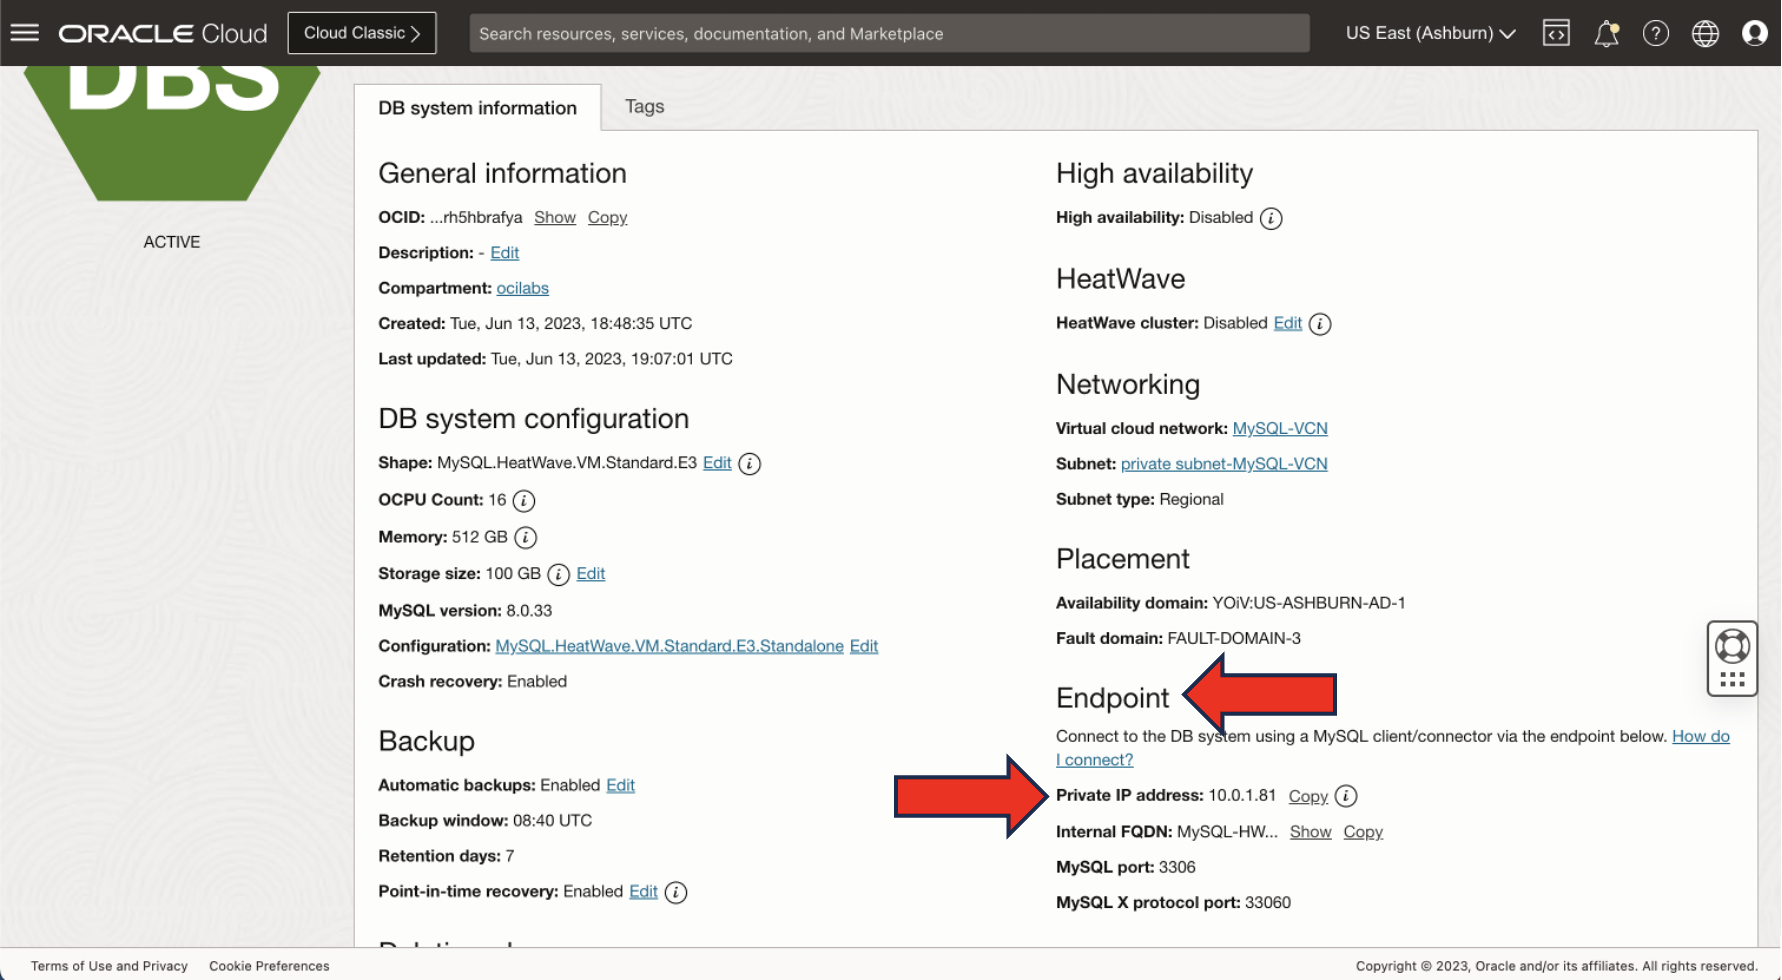
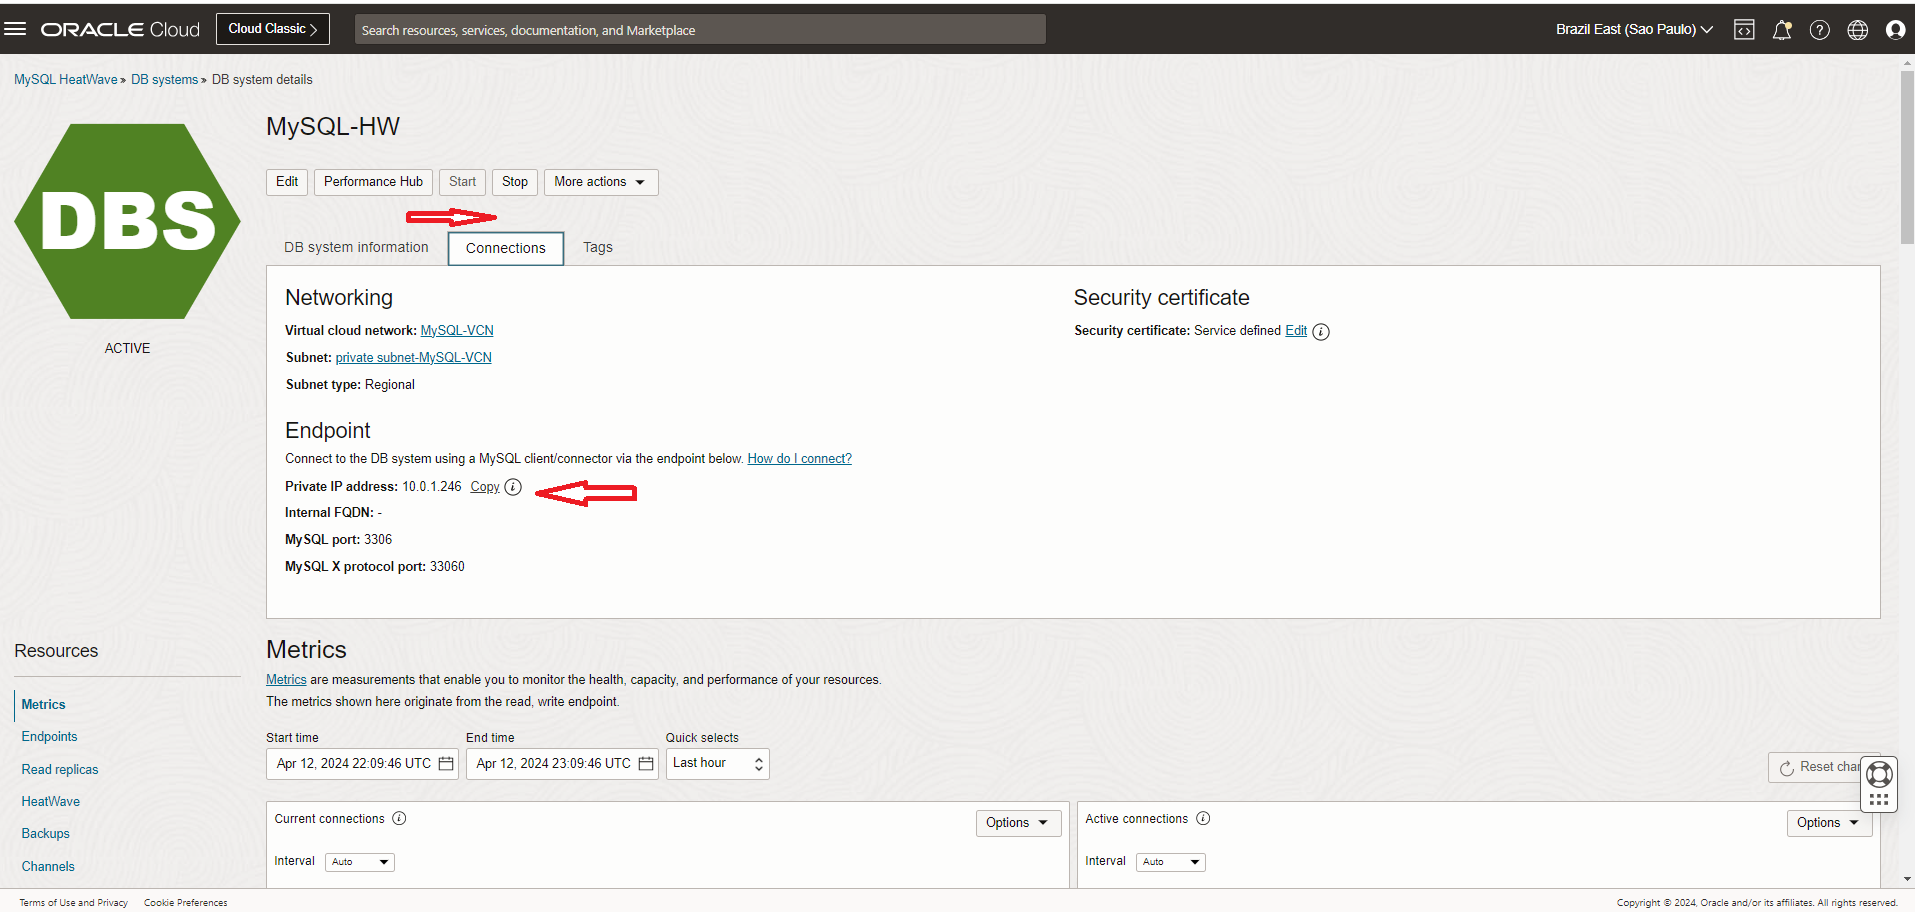
updated

diff --git a/apex-heatwave/apex-heatwave.md b/apex-heatwave/apex-heatwave.md
@@ -35,7 +35,7 @@ In this lab, you will be guided through the following task:
 
     ![Developer Services SQL Worksheet](./images/OCI-developer-services-sql-worksheets.png "OCI-developer-services-sql-worksheets ")
 
-2. Select the movies compartment and the created **HW-MovieHub-Connection**
+2. elect the root compartment and the created **HW-Connection**
 
 3. You can run SQL queries, in the SQL Worksheet.
 
@@ -104,20 +104,20 @@ In this lab, you will be guided through the following task:
     a.
     ![start apex deploy](./images/start-apex-deploy.png "start apex deploy ")
     ![continue apex deploy](./images/continue-apex-deploy.png "continue apex deploy ")
-    b. Choose movies compartment and set APEX password
+    b. Choose root compartment and set APEX password
     ![set apex password](./images/set-password-apex-deploy.png "set apex password")
     ![completed apex deploy](./images/completed-apex-deploy.png "completed apex deploy")
 
 2. Create Workspace
 
     a.
-    ![login apexd](./images/login-apexd.png "login apexd ")
+    ![login apexd](./images/login-apexd.png "login apex ")
 
     ![create apex workspace](./images/create-apex-workspace.png "create apex workspace" )
     b. Name the APEX workspace
 
     ```bash
-    <copy> heatwave-movies </copy>
+    <copy> heatwave</copy>
     ```
 
     c. Set an Admin user and password for the workspace
@@ -169,7 +169,7 @@ In this lab, you will be guided through the following task:
 4. Give the REST service a name
 
     ```bash
-    <copy> MovieHub-moviesdb </copy>
+    <copy> HeatWave </copy>
     ```
 
 5. For Endpoint URL, Introduce the Endpoint URL **without** the "**`/_/sql`**" at the end. Notice the help message.
@@ -180,7 +180,7 @@ In this lab, you will be guided through the following task:
 
     ![rest services credentials](./images/rest-service-credentials.png "rest-service-credentials ")
 
-8. If previous steps were performed correctly, you should see a successful connection. Select the default database **movies**
+8. If previous steps were performed correctly, you should see a successful connection. Select the default database **world**
 
     ![rest services successful connection](./images/rest-service-success.png "rest-service-success ")
 

diff --git a/connect-dbs-worksheet/connect-dbs-worksheet.md b/connect-dbs-worksheet/connect-dbs-worksheet.md
@@ -84,7 +84,7 @@ In this lab, you will be guided through the following task:
     <copy> HW-DB </copy>
     ```
 
-    e. Select the the **Manual Encryption Generation** box
+    e. Select the the **Manual secret Generation** box
 
     f. In **Secret Contents**, write the password for the admin user created for your MySQL HeatWave DB System
 
@@ -116,7 +116,7 @@ In this lab, you will be guided through the following task:
 
     d. Select **Enter network information**
 
-    e. Select the **private subnet** from the roo compartment
+    e. Select the **private subnet** from the root compartment
 
     ![Create Private Endpoint Details](./images/create-private-endpoint-details.png "create-private-endpoint-details ")
 
@@ -162,13 +162,12 @@ In this lab, you will be guided through the following task:
 
     ![Connection Select](./images/connection-select.png "Connection Select")
 
-
-3. You can run SQL queries, in the SQL Worksheet.
+4. You can run SQL queries, in the SQL Worksheet.
 
     a. List the schemas
 
     ```bash
-    <copy>show database;</copy>
+    <copy>show databases;</copy>
     ```
 
     ![Connection Run](./images/connection-run.png "Connection Run")

diff --git a/create-heatwave/create-heatwave.md b/create-heatwave/create-heatwave.md
@@ -77,11 +77,11 @@ In this lab, you will be guided through the following task:
 
     **Note:** it may take MySQL HeatWave a few minutes to be in an "ACTIVE" state
 
-11. Once your MySQL DB System is 'ACTIVE', a “Private IP Address” will be allocated to it, find and copy it. You can find this Private IP under “DB System Information” > “Endpoint” section on the “DB System Details” page
+11. Once your MySQL DB System is 'ACTIVE', a “Private IP Address” will be allocated to it, find and copy it. Click on the name of your MySQL DB System to open the “DB System Details” page and click the "Connections" tab. You can find this Private IP under “Endpoint” section.
 
     ![MySQL DB System Information Section](./images/hw-ip1-new.png "MySQL-IP")
 
-    **Note:** You can find this Private IP under “Endpoint” section on the Connections tab on the “DB System Details” > “MySQL” > “DB Systems”. Click on the name of your MySQL DB System to open the “DB System Details” page.
+    **Note:** 
 
 12. Copy the Private IP Address in the previous Step. You can now login to your MySQL DB System using MySQL Shell from your Compute. Execute
 

diff --git a/develop/develop.md b/develop/develop.md
@@ -190,7 +190,7 @@ In this lab, you will be guided through the following tasks:
     <copy>sudo nano config.php</copy>
     ```
 
-3. Add the following code to the editor and save the file (ctr + o) (ctl + x)
+3. Add the following code to the editor. Update DB_SERVER with the MySQL DB IP abddress, update the username and password then save the file (ctr + o) (ctl + x)
 
      ```bash
         <copy><?php
